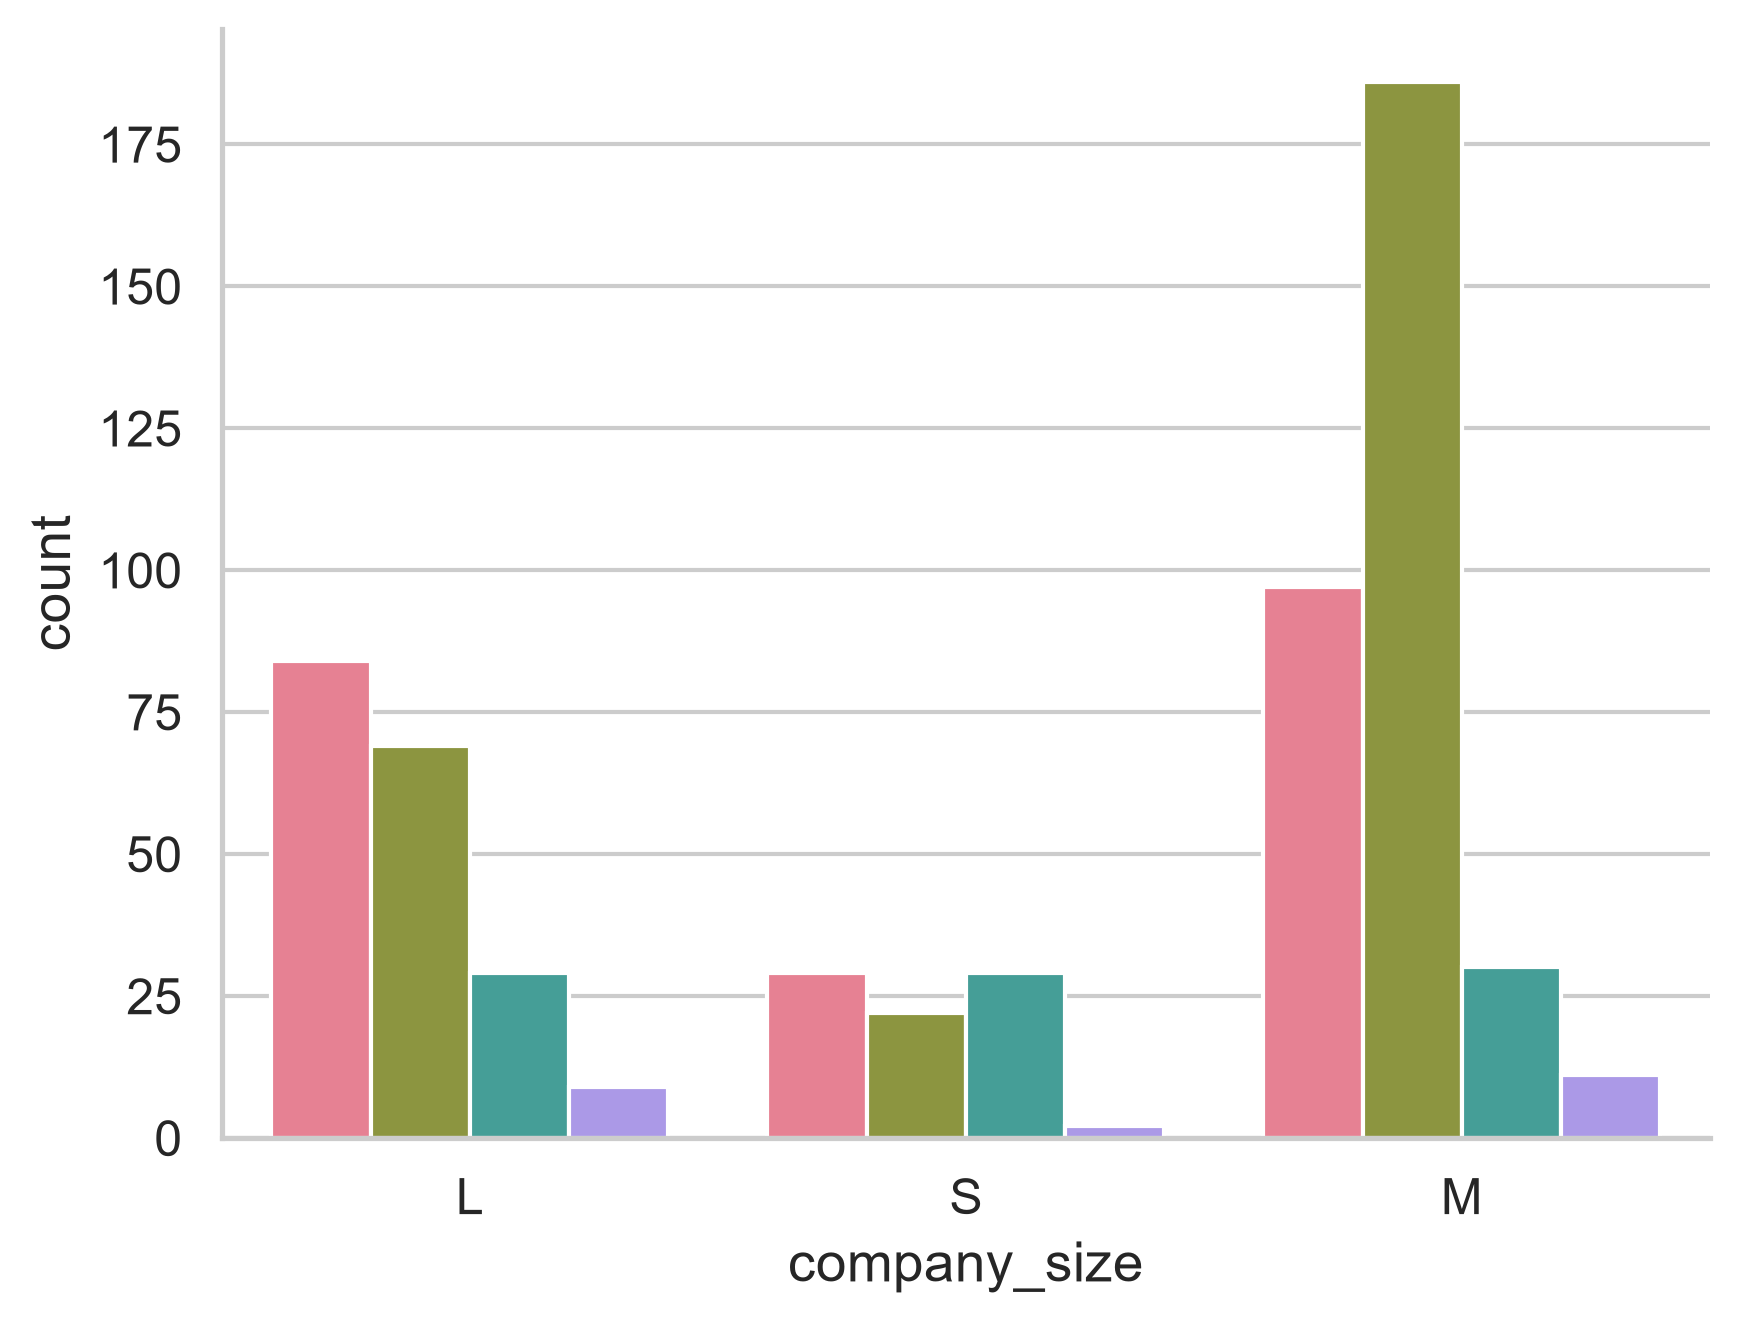
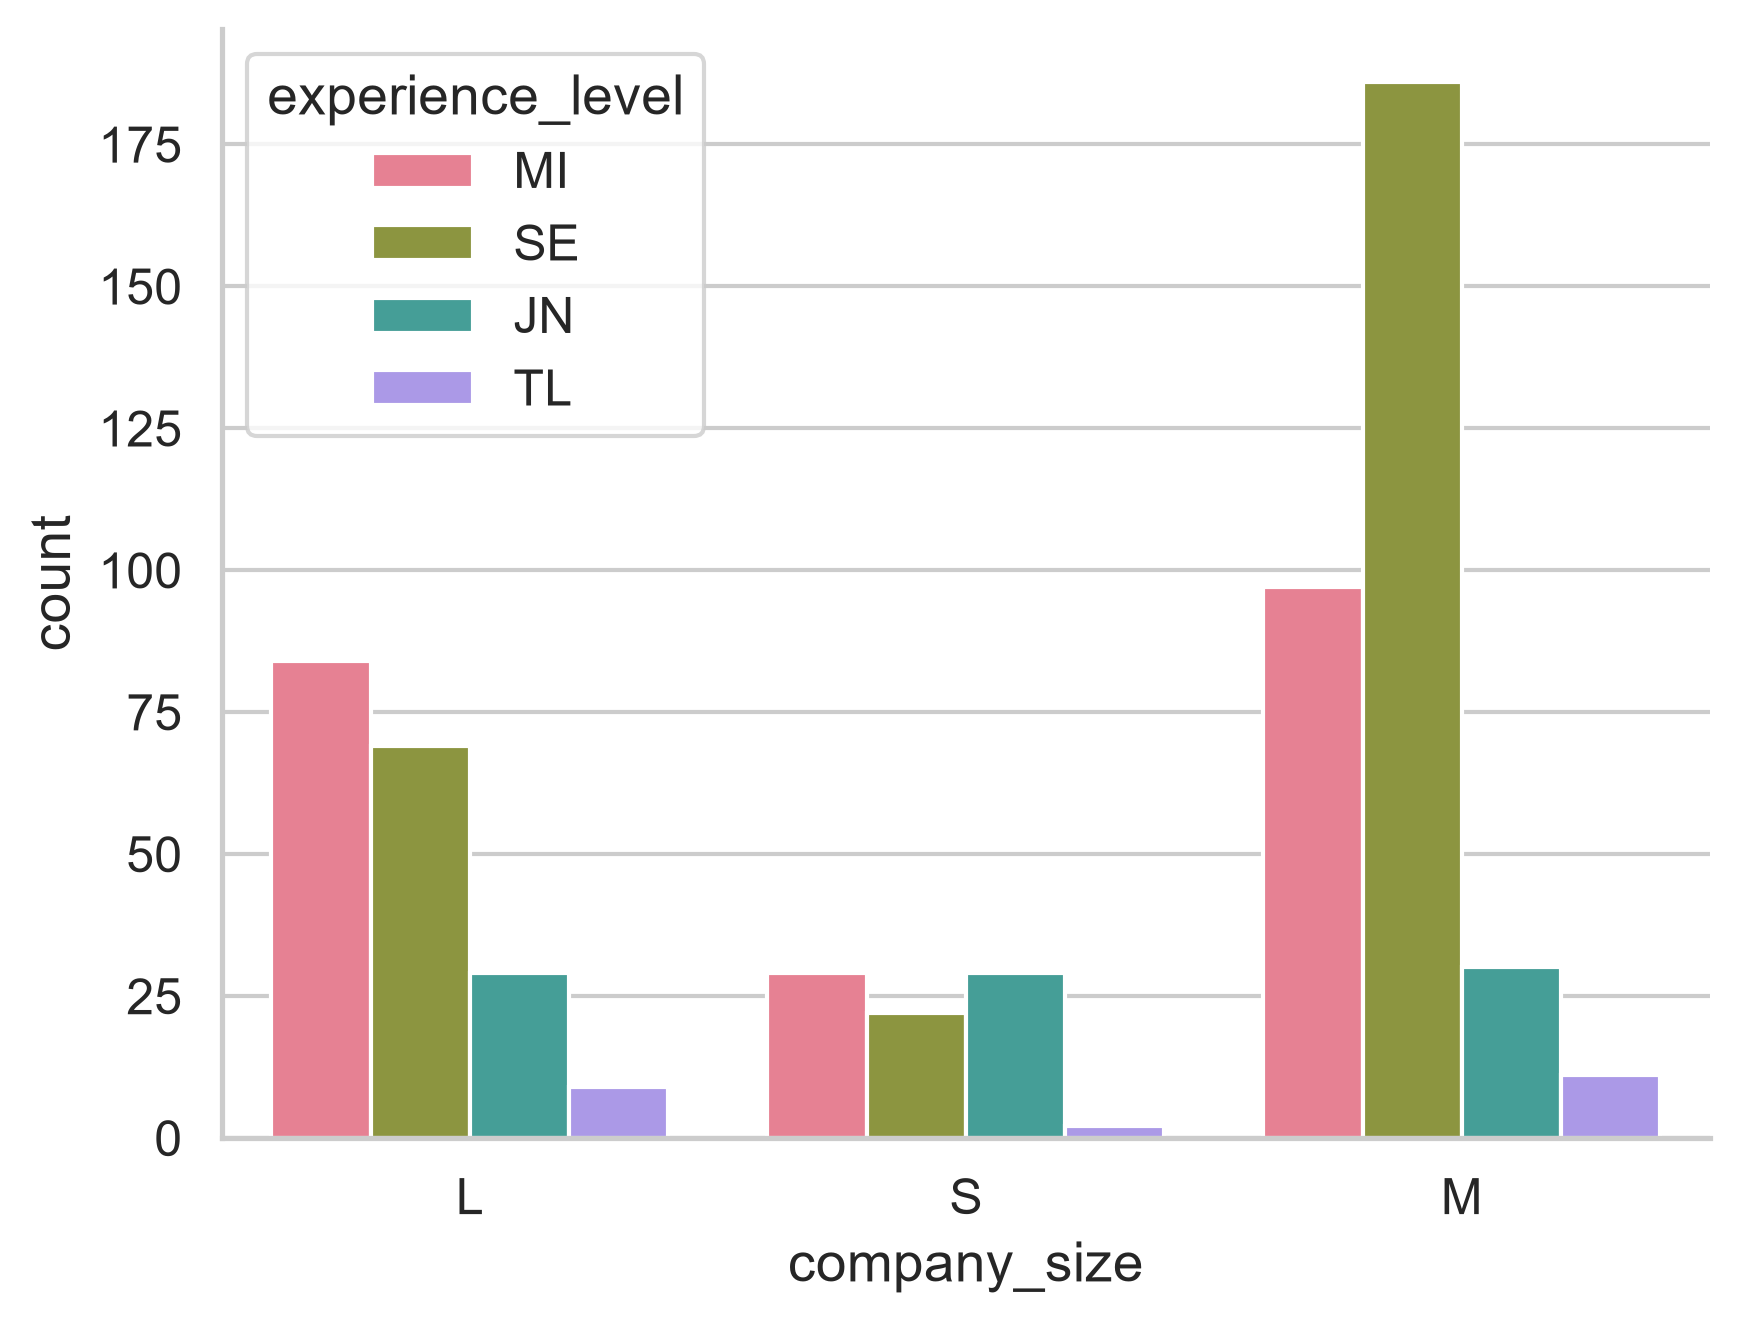
add answer

Changed region(s): [[0.1553, 0.031, 0.4037, 0.2479], [0.1242, 0.2789, 0.4037, 0.3409], [0.1242, 0.093, 0.1553, 0.124]]

diff --git a/README.md b/README.md
@@ -1,6 +1,7 @@
 ![Python](https://img.shields.io/badge/Python-FFD43B?style=for-the-badge&logo=python&logoColor=blue)
 ![Pandas](https://img.shields.io/badge/Pandas-2C2D72?style=for-the-badge&logo=pandas&logoColor=white)
-![Seaborn](https://shields.io)
+![Seaborn](https://img.shields.io/badge/Seaborn-4EAEAA?logo=python&logoColor=fff)
+![Matplotlib](https://img.shields.io/badge/Matplotlib-2C2D72?style=for-the-badge&logo=matplotlib&logoColor=white)
 ![SciPy](https://img.shields.io/badge/SciPy-654FF0?style=for-the-badge&logo=SciPy&logoColor=white)
 
 <!--![Plotly](https://img.shields.io/badge/Plotly-239120?style=for-the-badge&logo=plotly&logoColor=white)
@@ -256,6 +257,61 @@ plt.show()
 </details>
 
 > 💡 **Ключевой инсайт:** Сильнее всего на зарплатную вилку в Data Science влияет **уровень квалификации (грейд)**, демонстрируя уверенный рост доходов от `JN` к `TL`. Размер компании имеет меньшее значение: пики распределений для средних (`M`) и крупных (`L`) компаний находятся на одном уровне по оси зарплат, что говорит о схожих типичных доходах в этих сегментах. При этом график `M` значительно выше по вертикали из-за дисбаланса в данных (вакансий от средних компаний и специалистов уровня `SE` в выборке подавляющее большинство).
+
+<details>
+<summary>👥 Шаг 6: Распределение грейдов в компаниях (Поиск ответов на Вопрос 2)</summary>
+
+На этом этапе исследуется структура найма: как именно распределяются уровни квалификации сотрудников (`experience_level`) внутри компаний различного масштаба (`company_size`), а также оценивается разброс их заработных плат.
+
+### 1. Визуализация структуры найма и распределения доходов
+Для анализа численности сотрудников строится групповая столбчатая диаграмма `countplot`. Для детальной оценки плотности и диапазонов зарплат внутри каждого грейда строится классический `boxplot`.
+
+```python
+# Визуализация распределения количества грейдов по размерам компаний
+sns.countplot(data=data, x="company_size", hue="experience_level")
+plt.savefig('images/salary_chart8.png', dpi=300, bbox_inches='tight')
+plt.show()
+
+# Анализ распределения зарплат для каждого грейда в разрезе размеров компаний
+sns.boxplot(data=data, x="salary_in_usd", y="experience_level", hue='company_size')
+plt.savefig('images/salary_chart9.png', dpi=300, bbox_inches='tight')
+plt.show()
+```
+
+#### Визуализация структуры грейдов и зарплат:
+<p align="center">
+  <img src="images/salary_chart8.png" width="49%" alt="Распределение грейдов по размерам компаний" />
+  <img src="images/salary_chart9.png" width="49%" alt="Диаграмма размаха по грейдам и размерам" />
+</p>
+
+---
+
+### 📋 Выводы на основе распределения:
+1. **Компании размера M** значительно чаще нанимают сотрудников грейда `Senior`.
+2. **Компании размера L** в процентном соотношении больше нанимают сотрудников грейда `Middle`.
+3. **Компании размера L** целенаправленно нанимают специалистов уровня `Middle` и готовы выделять бюджеты и средства, чтобы планомерно развивать их внутри корпорации до уровня `Senior`.
+4. **Компании размера M** предпочитают сразу нанимать готовых специалистов грейда `Senior`, чтобы бизнес получал коммерческую пользу и закрывал задачи быстрее, минуя этап долгого обучения.
+5. **Компании размера S** нанимают сотрудников всех грейдов относительно равномерно, адаптируясь под текущие небольшие задачи.
+6. **Компании всех размеров** крайне редко нанимают сотрудников высшего уровня `TeamLead`. При этом меньше всего тимлидов нанимают именно маленькие компании.
+
+---
+
+</details>
+
+> 💡 **Ключевой инсайт:** Стратегия найма жестко привязана к масштабу бизнеса: средние компании (`M`) делают ставку на скорость и массово привлекают готовых `Senior`-специалистов, в то время как крупные корпорации (`L`) смещают фокус на долгосрочное развитие и нанимают больше `Middle`-инженеров с перспективой внутреннего роста. Позиция `TeamLead` остается штучной и наименее востребованной на рынке для всех типов компаний, а в сегменте `S` найм распределен ровно, без явных приоритетов.
+
+
+
+
+
+
+
+
+
+
+
+
+
 
 
 
